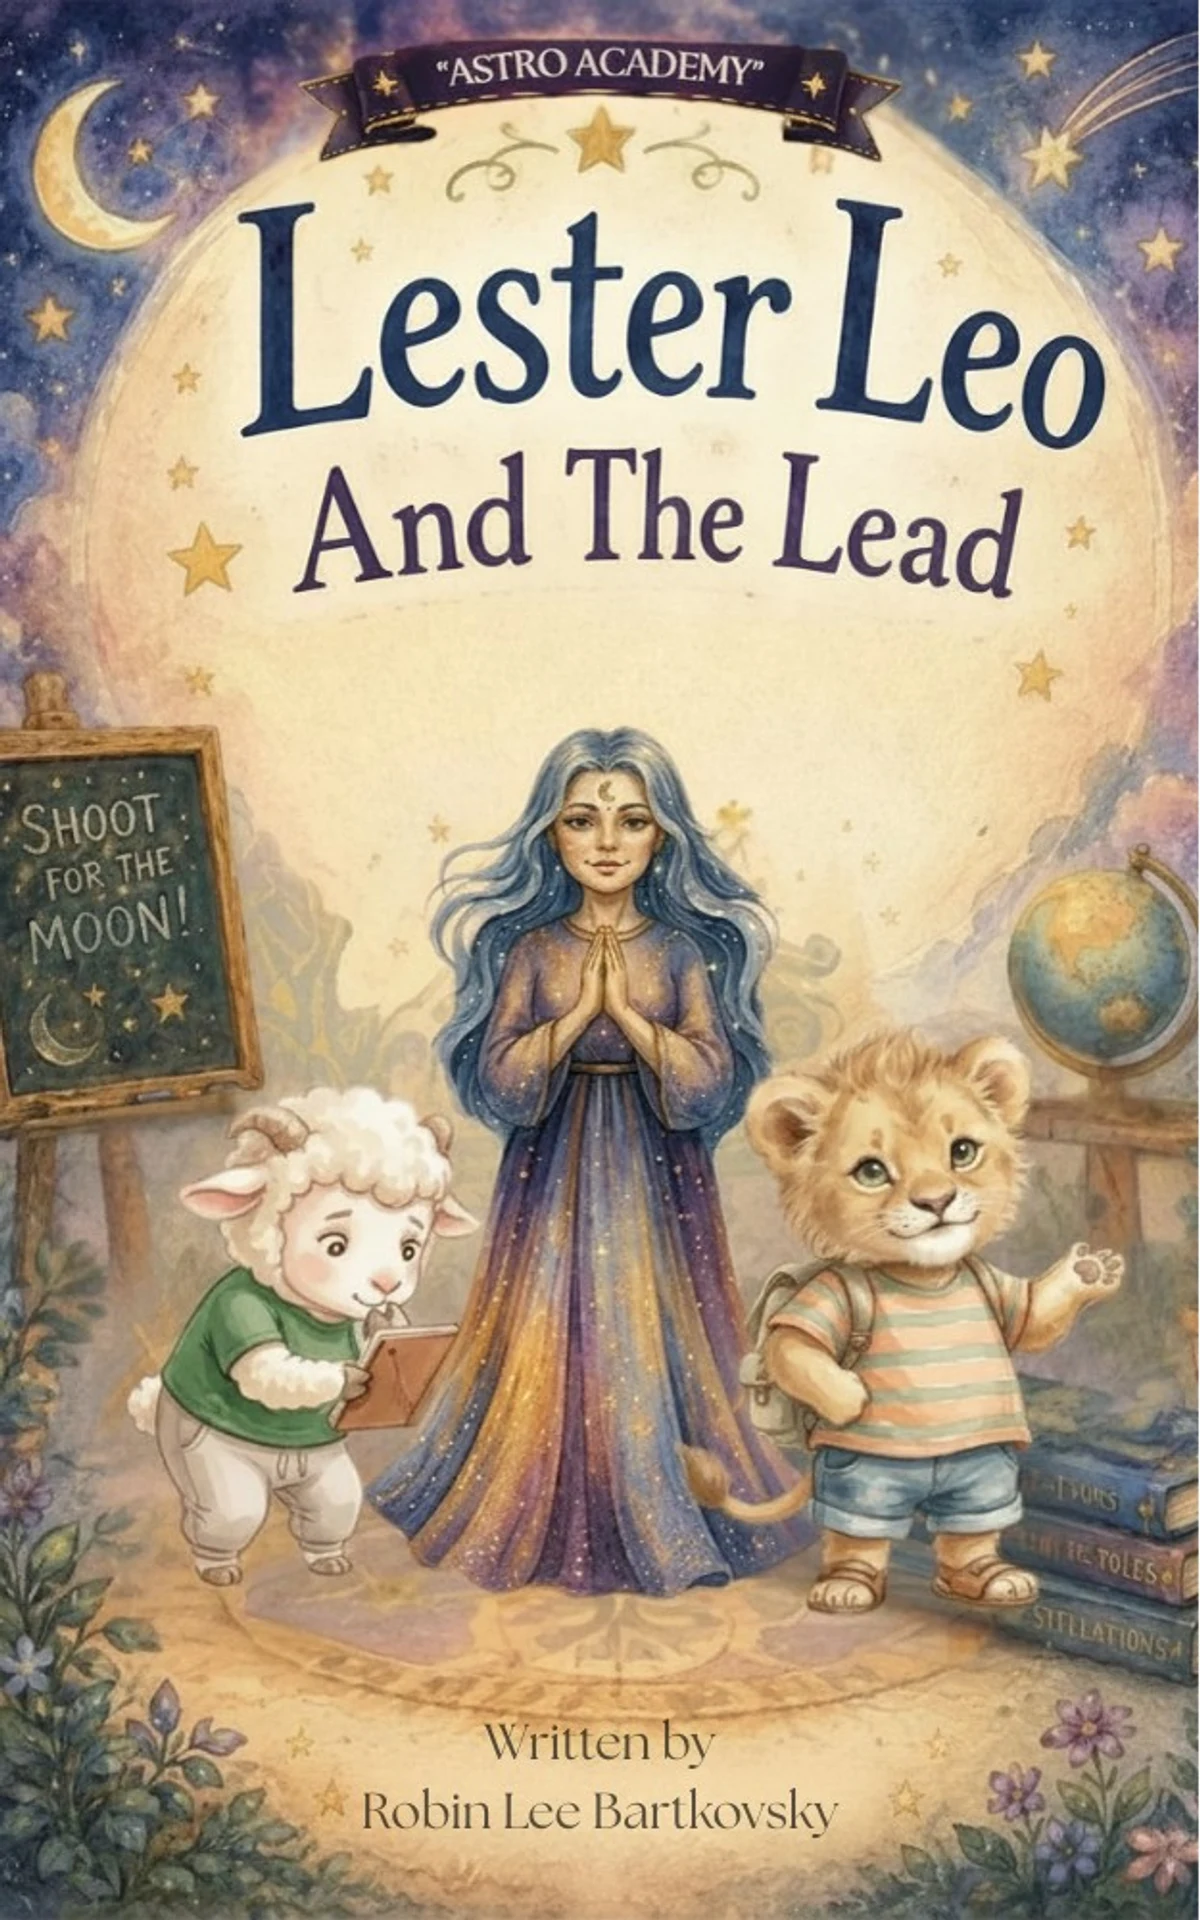
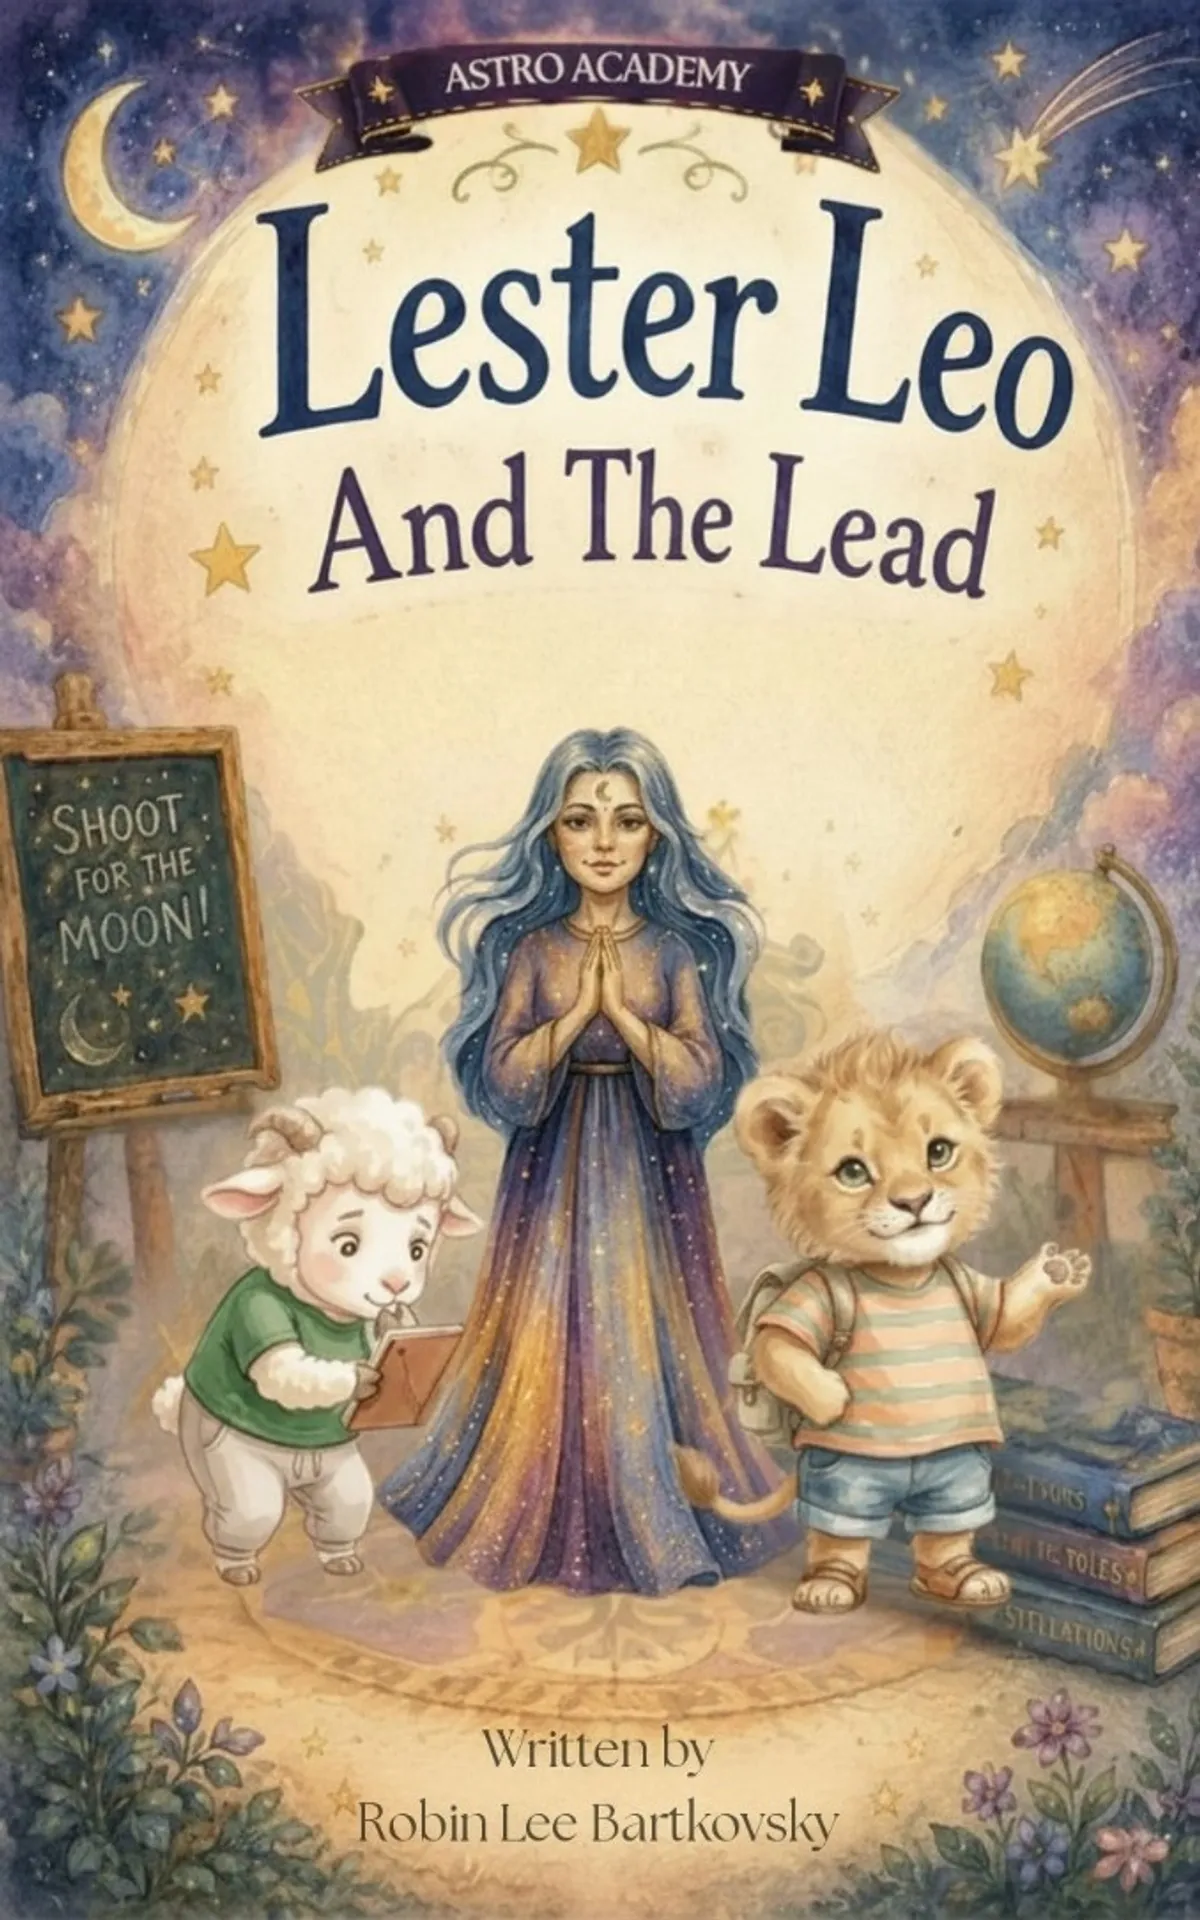
Updated

diff --git a/src/lib/books.ts b/src/lib/books.ts
@@ -18,7 +18,7 @@ import spread14 from "@/assets/illustrations/spread-14.webp";
 import spread15 from "@/assets/illustrations/spread-15.webp";
 import spread16 from "@/assets/illustrations/spread-16.webp";
 
-export type Format = "Paperback" | "Hardcover" | "E-Book" | "Audiobook" | "Videobook";
+export type Format = "Paperback" | "Hardcover" | "E-Book";
 
 export interface BookFormat {
   type: Format;
@@ -173,36 +173,6 @@ export const storySpreads: StorySpread[] = [
   { image: spread15, caption: "Over the next few weeks, Lester helped Ahmi practice." },
   { image: spread16, caption: "Ahmi received a standing ovation \u2014 and Lester couldn\u2019t have been prouder." },
 ];
-
-// Audio & video editions — presented as buy-only pages (no on-site player).
-export const audiobook = {
-  format: "Audiobook" as Format,
-  price: 7.99,
-  minutes: 14,
-  narrator: "Robin Lee Bartkovsky",
-  buyUrl: purchaseUrl,
-  tagline: "Lester Leo, read aloud with gentle music — perfect for sleepy ears and long drives.",
-  perks: [
-    "Narrated by the author",
-    "Soft background score",
-    "About 14 minutes",
-    "Instant download · MP3",
-  ],
-};
-
-export const videobook = {
-  format: "Videobook" as Format,
-  price: 9.99,
-  minutes: 12,
-  buyUrl: purchaseUrl,
-  tagline: "A read-along video where the hand-painted spreads come quietly to life on screen.",
-  perks: [
-    "Narrated read-along",
-    "Animated watercolor scenes",
-    "About 12 minutes",
-    "HD download · MP4",
-  ],
-};
 
 // Free "peek inside" — a small teaser, not the whole book.
 export const peekSpreads = storySpreads.slice(0, 4);

diff --git a/src/components/SiteHeader.tsx b/src/components/SiteHeader.tsx
@@ -2,15 +2,12 @@ import { Link, useLocation } from "react-router-dom";
 import { ShoppingBag, Menu, X, Moon } from "lucide-react";
 import { useState } from "react";
 import { useCart } from "@/lib/cart";
-import { BuyTheBookLink } from "@/components/BuyTheBookLink";
 import { AnimatePresence, motion } from "framer-motion";
 
 const nav = [
   { to: "/", label: "Home" },
   { to: "/about", label: "About" },
   { to: "/books", label: "Book" },
-  { to: "/audiobook", label: "AudioBook" },
-  { to: "/videobook", label: "VideoBook" },
   { to: "/contact", label: "Contact" },
 ];
 
@@ -40,9 +37,6 @@ export function SiteHeader() {
         </nav>
 
         <div className="flex items-center gap-2.5">
-          <BuyTheBookLink className="hidden lg:inline-flex btn-gold !py-2 !px-4 text-sm">
-            Buy the Book
-          </BuyTheBookLink>
           <Link
             to="/cart"
             className="relative flex items-center justify-center w-10 h-10 rounded-full border border-cream/40 text-cream hover:bg-cream hover:text-night transition"
@@ -84,9 +78,6 @@ export function SiteHeader() {
                   {n.label}
                 </Link>
               ))}
-              <BuyTheBookLink className="btn-gold mt-2" onClick={() => setOpen(false)}>
-                Buy the Book
-              </BuyTheBookLink>
             </div>
           </motion.nav>
         )}

diff --git a/src/App.tsx b/src/App.tsx
@@ -9,8 +9,6 @@ import { Toaster } from "@/components/ui/sonner";
 import Home from "./routes/index";
 import About from "./routes/about";
 import Books from "./routes/books";
-import Audiobook from "./routes/audiobook";
-import Videobook from "./routes/videobook";
 import Contact from "./routes/contact";
 import Cart from "./routes/cart";
 import Marketing from "./routes/marketing";
@@ -50,8 +48,6 @@ export default function App() {
             <Route path="/" element={<Home />} />
             <Route path="/about" element={<About />} />
             <Route path="/books" element={<Books />} />
-            <Route path="/audiobook" element={<Audiobook />} />
-            <Route path="/videobook" element={<Videobook />} />
             <Route path="/contact" element={<Contact />} />
             <Route path="/marketing" element={<Marketing />} />
             <Route path="/cart" element={<Cart />} />

diff --git a/src/components/SiteFooter.tsx b/src/components/SiteFooter.tsx
@@ -38,16 +38,6 @@ export function SiteFooter() {
               </Link>
             </li>
             <li>
-              <Link to="/audiobook" className="hover:text-gold transition">
-                Audiobook
-              </Link>
-            </li>
-            <li>
-              <Link to="/videobook" className="hover:text-gold transition">
-                Videobook
-              </Link>
-            </li>
-            <li>
               <Link to="/about" className="hover:text-gold transition">
                 About the Author
               </Link>
